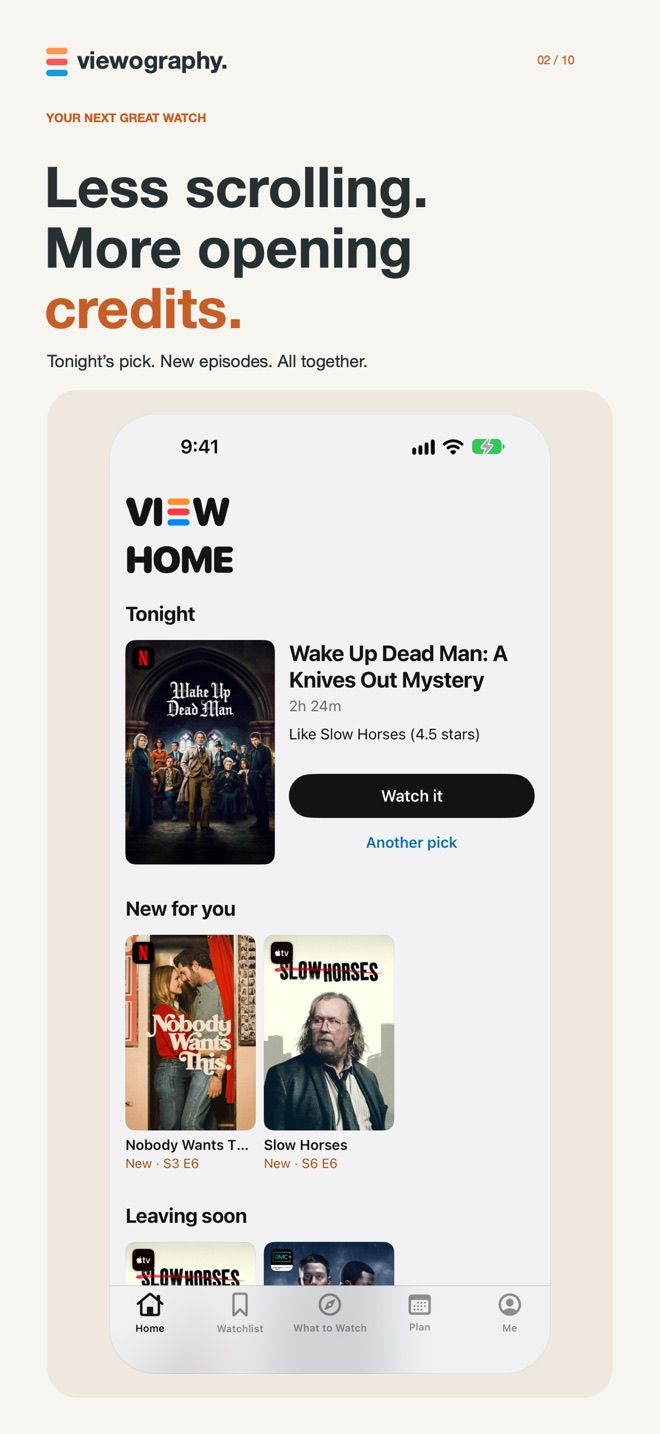
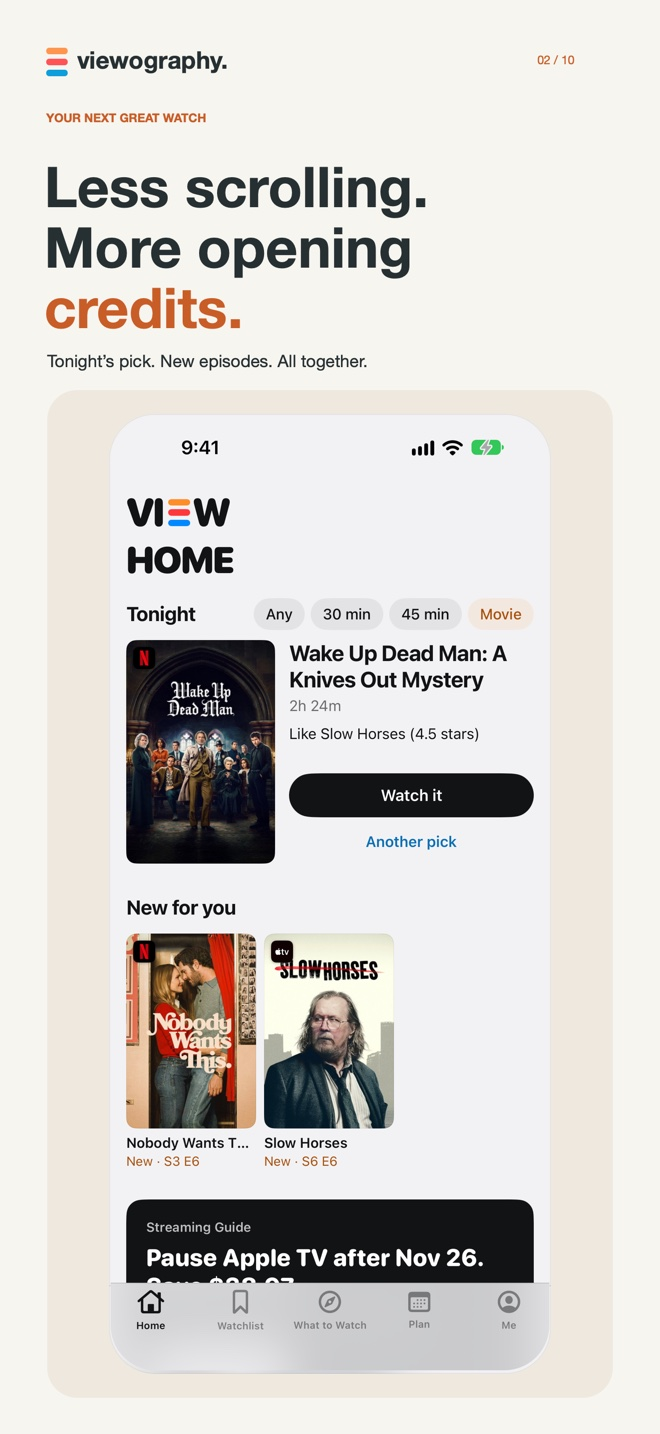
Tour: Home panel from the 4.2 Home screen (no Leaving soon); remove CNAME now that Cloudflare serves the site

diff --git a/index.html b/index.html
@@ -119,7 +119,7 @@
       <div class="tour-stage">
         <div class="tour-strip" tabindex="0" role="group" aria-label="App screens. Scroll sideways for more.">
           <figure id="tour-plan" class="tour-slide"><img src="/assets/tour/01-streaming-planner.jpg" alt="The Plan tab: a November calendar with renewal dates and a plan of attack listing which services to cancel and when." width="660" height="1434" decoding="async"><figcaption><span class="feature-index">01 / PLAN</span><strong>Know when to keep, pause or resume.</strong><span>A calendar of what you’re watching and when each service renews, with a plan of attack for the month.</span></figcaption></figure>
-          <figure id="tour-tonight" class="tour-slide"><img src="/assets/tour/02-tonights-pick.jpg" alt="The Home tab: tonight’s pick with a Watch it button, then New for you and Leaving soon rows." width="660" height="1434" loading="lazy" decoding="async"><figcaption><span class="feature-index">02 / TONIGHT</span><strong>End the endless scrolling.</strong><span>Home opens with tonight’s pick, new episodes and what’s on this week.</span></figcaption></figure>
+          <figure id="tour-tonight" class="tour-slide"><img src="/assets/tour/02-tonights-pick.jpg" alt="The Home tab: tonight’s pick with a Watch it button and Any, 30 min, 45 min and Movie choices, then New for you and the Streaming Guide." width="660" height="1434" loading="lazy" decoding="async"><figcaption><span class="feature-index">02 / TONIGHT</span><strong>End the endless scrolling.</strong><span>Home opens with tonight’s pick, new episodes and what’s on this week.</span></figcaption></figure>
           <figure id="tour-track" class="tour-slide"><img src="/assets/tour/03-up-next.jpg" alt="The Watchlist tab: an Up next grid of six shows, each with its next episode." width="660" height="1434" loading="lazy" decoding="async"><figcaption><span class="feature-index">03 / TRACK</span><strong>Pick up where you left off.</strong><span>Track episodes, seasons, movies and rewatches. Your Watchlist puts what’s ready on your services up next, with upcoming titles right behind.</span></figcaption></figure>
           <figure id="tour-discover" class="tour-slide"><img src="/assets/tour/04-explore.jpg" alt="Explore: search with Where, Genre and Year filters above a grid of TV shows and the services they’re on." width="660" height="1434" loading="lazy" decoding="async"><figcaption><span class="feature-index">04 / DISCOVER</span><strong>Find your next favorite.</strong><span>Get suggestions based on your services and taste. Explore by streaming service, genre and year.</span></figcaption></figure>
           <figure id="tour-services" class="tour-slide"><img src="/assets/tour/05-your-services.jpg" alt="A show’s page: seasons watched and a Where to watch card for an add-on channel inside another service’s app." width="660" height="1434" loading="lazy" decoding="async"><figcaption><span class="feature-index">05 / SERVICES</span><strong>Your services, exactly.</strong><span>Paid subscriptions, add-on channels, free services and TV access, so Viewography knows what you can actually watch, and how you get it.</span></figcaption></figure>
